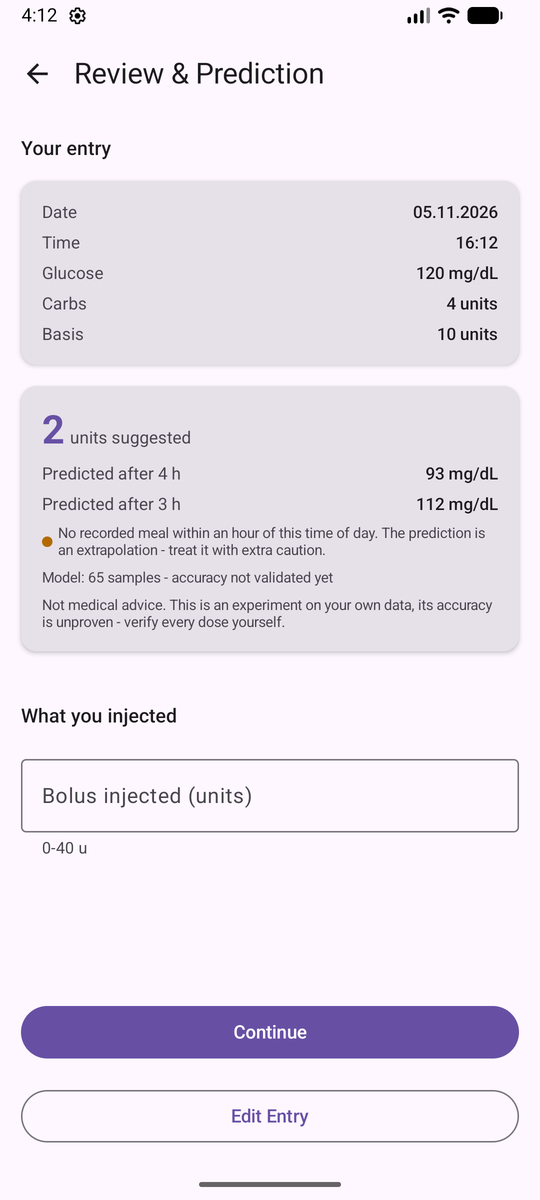
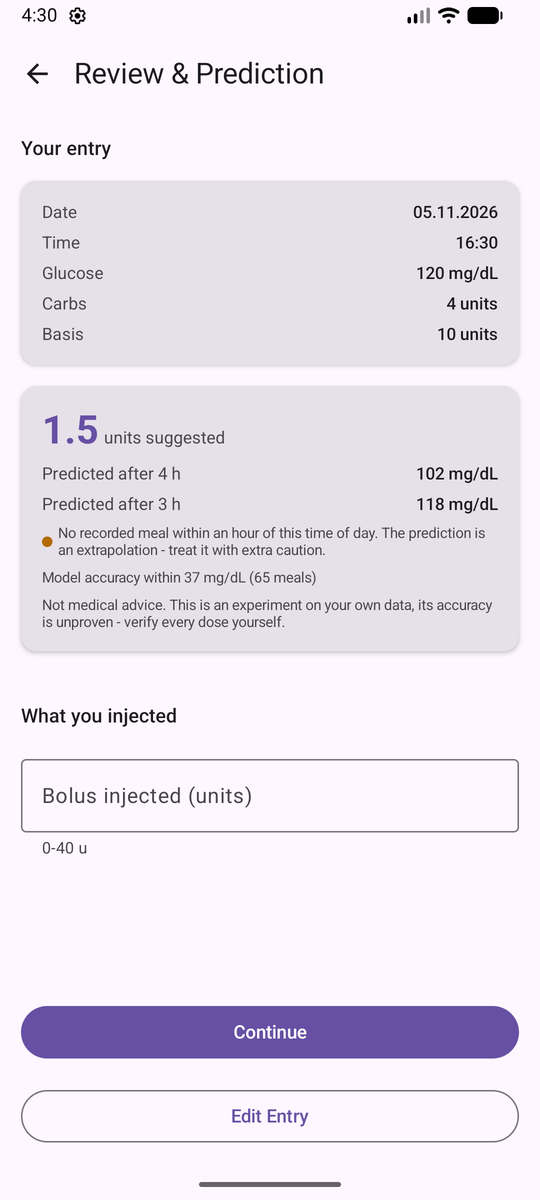
fix: quote the model's accuracy instead of claiming none
The review screen printed 'accuracy not validated yet' whenever the restored model's
leave-one-out figure was absent - which was after every restart. restoreStoredModel() rebuilds
the result from model_table, which stores the in-sample RMSE but no LOO columns, so the number
was lost on launch even though the Analysis screen computed it on demand. The line is the one
place that says how much a suggestion deserves trust.

restoreValidation() now recomputes LOO after restoring, with the lambda the fit used, and only
while DataVersion.current == trainedVersion: on a stale model a fresh LOO describes a refit on
today's rows, not the model that answered. Persisting it instead needs a column, which would bump
diary.db through the destructive migration (H2).

Wording: 'Model accuracy within 37 mg/dL (65 meals)' replaces 'typical miss ... on meals it did
not see'; the analysis counts line says 'validation error 37 mg/dL (leave-one-out)' instead of
'average miss', which read as the benchmark's 41 mg/dL from 90 beside it.

Main, review, fetch and analysis now all report 37 mg/dL. AUDIT.md M9.

diff --git a/app/src/main/java/com/example/glpred/ui/DiaryViewModel.kt b/app/src/main/java/com/example/glpred/ui/DiaryViewModel.kt
@@ -12,6 +12,7 @@ import com.example.glpred.data.DataVersion
 import com.example.glpred.data.DiaryCsv
 import com.example.glpred.data.DiaryDatabase
 import com.example.glpred.data.DiaryEntity
+import com.example.glpred.data.TrainedModelEntity
 import com.example.glpred.prediction.DiaryEntryInput
 import com.example.glpred.prediction.DoseAdvisor
 import com.example.glpred.prediction.DoseRecommendation
@@ -97,7 +98,40 @@ class DiaryViewModel(application: Application) : AndroidViewModel(application) {
                 trainedAt = stored.trainedAt,
                 restoredAtStartup = true
             )
+            restoreValidation(stored)
         }
+    }
+
+    /**
+     * Recomputes the leave-one-out error of a model read back from storage.
+     *
+     * The figure is not stored with the model: `model_table` predates it, and adding a column would
+     * bump `diary.db`'s version, which runs the destructive migration and deletes the hand-entered
+     * diary (AUDIT.md H2). Without this the review screen said "not validated yet" while the
+     * Analysis screen computed and showed the very number (AUDIT.md M9).
+     *
+     * Guarded on the diary version: on a stale model a fresh leave-one-out describes a refit on
+     * today's rows, not the model that answered, and quoting that would be worse than quoting
+     * nothing. Uses the lambda the fit was made with, so the figure matches what training reported.
+     */
+    private suspend fun restoreValidation(stored: TrainedModelEntity) {
+        val app = getApplication<Application>()
+        if (DataVersion.current(app) != DataVersion.trainedVersion(app)) return
+
+        val loo = withContext(Dispatchers.IO) {
+            runCatching {
+                val samples = TrainingSamples.build(
+                    diaryDao.getAllEntriesList(),
+                    CgmSeries.from(cgmDao.getAllReadings())
+                )
+                LeaveOneOut.rmse4h(samples, stored.lambda)
+            }.getOrNull()
+        } ?: return
+
+        // A retrain may have landed while this ran; its own figure wins.
+        val restored = trainingResult as? TrainingResult.Trained ?: return
+        if (restored.looRmse4h != null) return
+        trainingResult = restored.copy(looRmse4h = loo.rmse, looFolds4h = loo.folds)
     }
 
     val allEntries: StateFlow<List<DiaryEntity>> = diaryDao.getAllEntries()
@@ -465,11 +499,12 @@ class DiaryViewModel(application: Application) : AndroidViewModel(application) {
         get() {
             val trained = trainingResult as? TrainingResult.Trained ?: return null
             val validation = trained.looRmse4h
+            // Plain language: the leave-one-out number is this model's accuracy, stated as a
+            // distance. "Typical miss on meals it did not see" said the same thing in ML shorthand.
             return if (validation != null) {
-                "Model: ${trained.samples4h} samples - typical miss " +
-                    "${validation.roundToInt()} mg/dL on meals it did not see"
+                "Model accuracy within ${validation.roundToInt()} mg/dL (${trained.samples4h} meals)"
             } else {
-                "Model: ${trained.samples4h} samples - accuracy not validated yet"
+                "Model accuracy not validated yet (${trained.samples4h} meals)"
             }
         }
 

diff --git a/app/src/main/java/com/example/glpred/ui/AnalysisScreen.kt b/app/src/main/java/com/example/glpred/ui/AnalysisScreen.kt
@@ -130,7 +130,11 @@ private fun countsLine(analysis: ModelVsHuman): String = buildString {
     if (analysis.labelledMeals != analysis.mealsWithSuggestion) {
         append(" · ${analysis.labelledMeals} with a 4 h value")
     }
-    analysis.validationErrorMgDl?.let { append(" · average miss ${it.roundToInt()} mg/dL") }
+    // Named for what it is: the leave-one-out error, not the distance from target that the
+    // benchmark card below reports. Two "miss" numbers on one screen read as one quantity.
+    analysis.validationErrorMgDl?.let {
+        append(" · validation error ${it.roundToInt()} mg/dL (leave-one-out)")
+    }
 }
 
 @Composable
